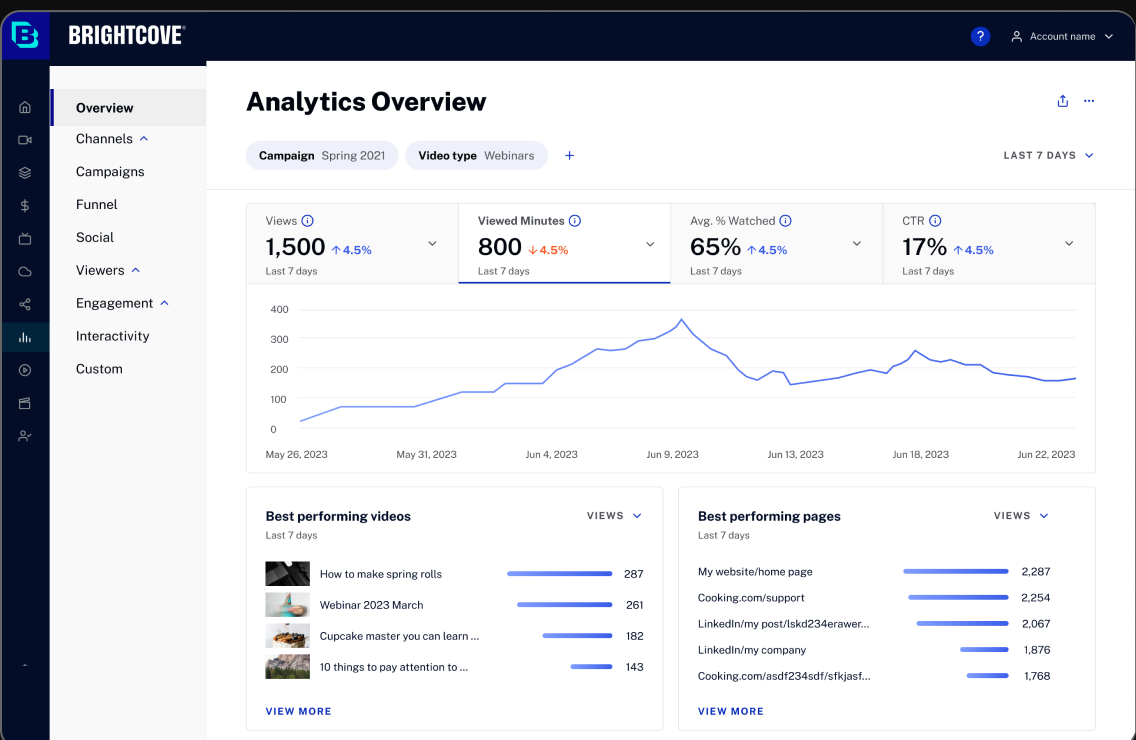
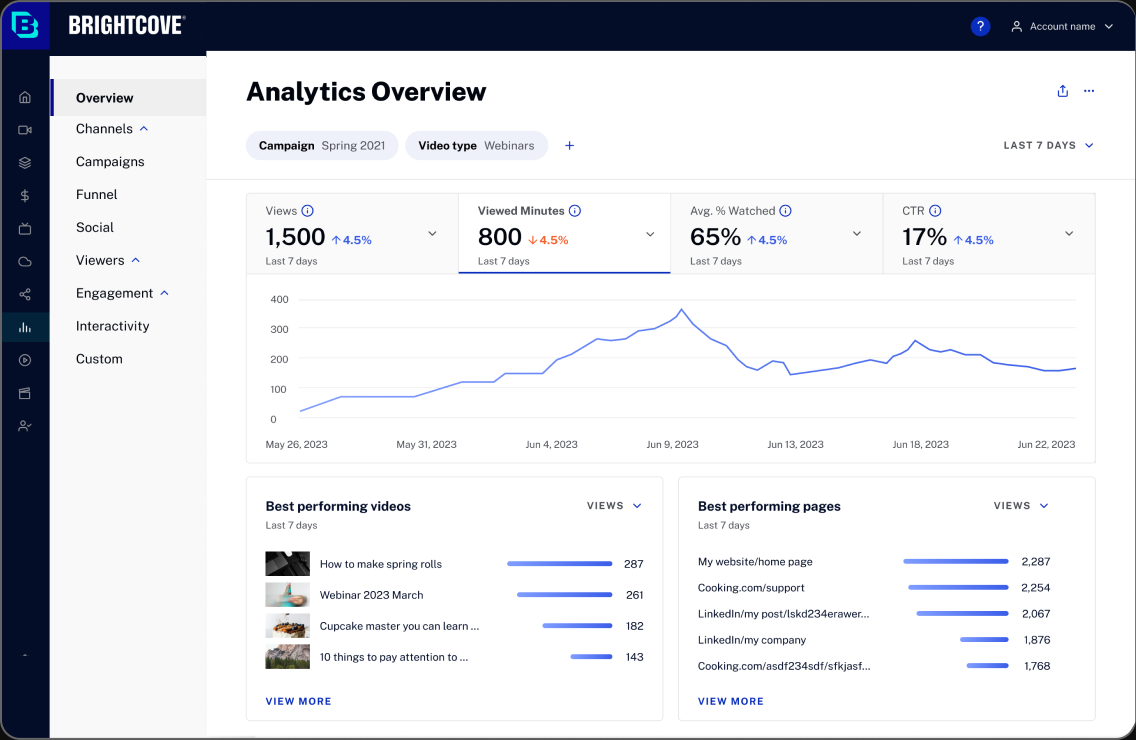
Fix Analytics before/after frames to match Figma
Crop both frames from one export of Figma 110:18926 so borders and tops line
up, and drop the extra panel gutter in wide mode so frames are 568px.

Claude-Session: https://claude.ai/code/session_01FTox3LsHN9kcrSKJB6AZvH

diff --git a/src/components/case-study/shared/caseStudyTokens.ts b/src/components/case-study/shared/caseStudyTokens.ts
@@ -82,6 +82,8 @@ export const caseStudyWideTokens: Record<`--cs-${string}`, string> = {
   "--cs-final-evidence-gap": "calc(var(--spacing) * 4)",
   "--cs-content-top": "var(--cs-section-gap)",
   "--cs-panel-min-height": "0",
+  // The page container already supplies the gutter.
+  "--cs-content-gutter": "0px",
 };
 
 /** Semantic roles compose existing site utilities. No template owns typography. */
